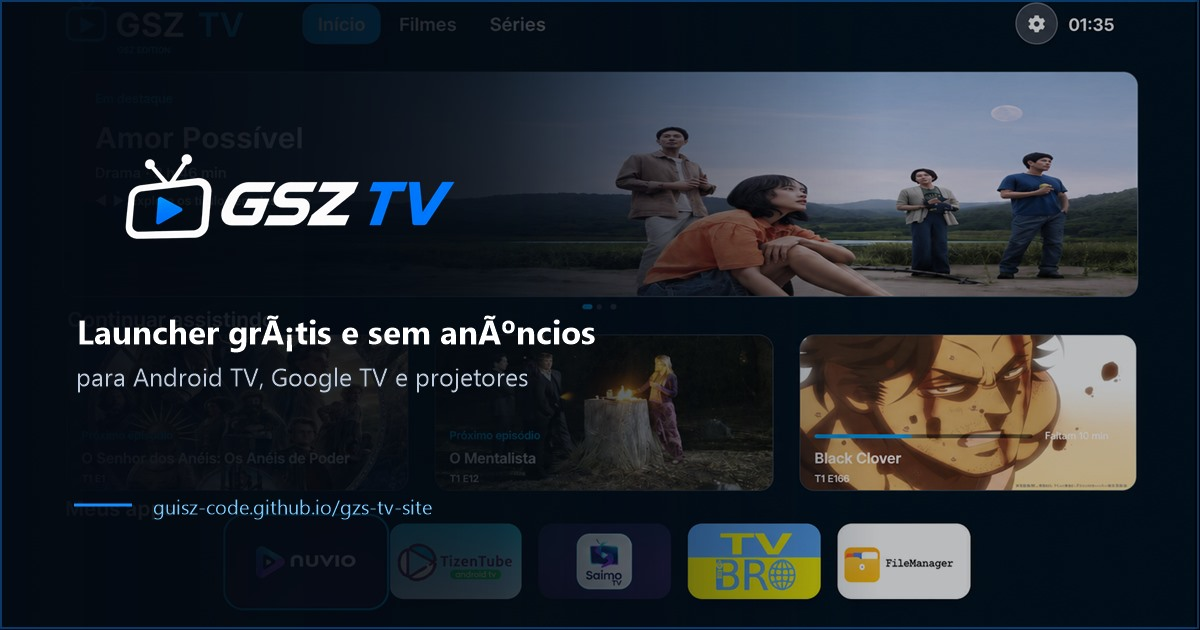
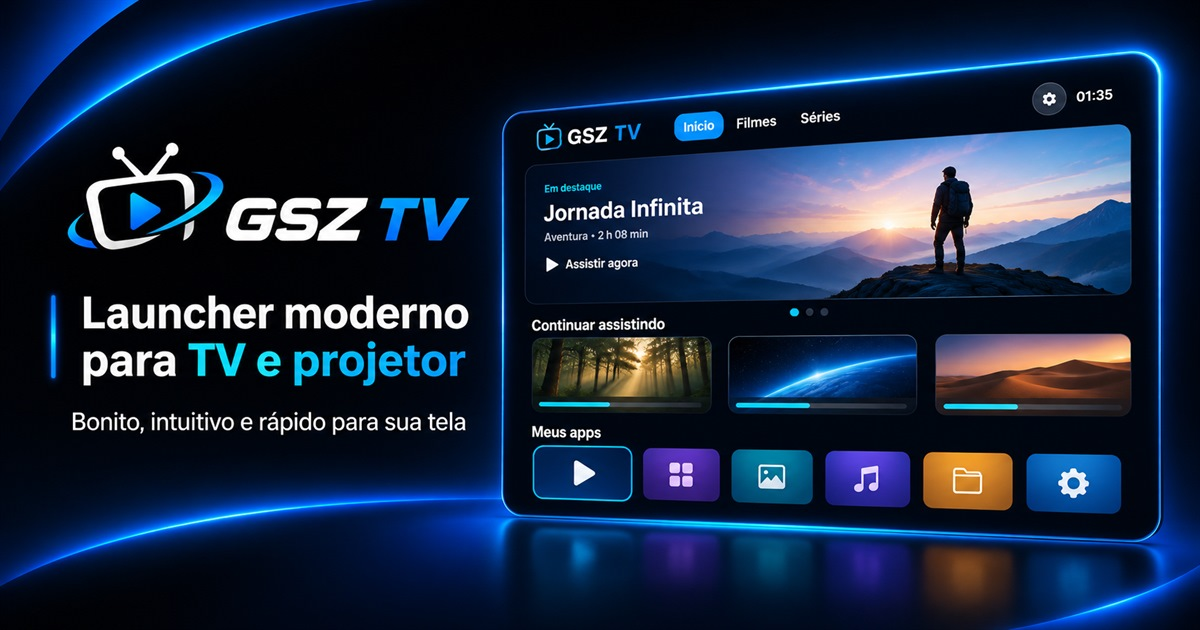
chore: atualiza social card e remove imagens duplicadas

diff --git a/index.html b/index.html
@@ -19,7 +19,7 @@
   <meta property="og:image:type" content="image/jpeg">
   <meta property="og:image:width" content="1200">
   <meta property="og:image:height" content="630">
-  <meta property="og:image:alt" content="GSZ TV — launcher grátis para Android TV, Google TV e projetores Android">
+  <meta property="og:image:alt" content="GSZ TV — launcher moderno para TV e projetor">
   <meta property="og:site_name" content="GSZ TV">
   <meta property="og:locale" content="pt_BR">
 
@@ -29,7 +29,7 @@
   <meta name="twitter:title" content="GSZ TV — Launcher grátis para Android TV">
   <meta name="twitter:description" content="Launcher gratuito, leve e sem anúncios para Android TV, Google TV e projetores Android.">
   <meta name="twitter:image" content="https://guisz-code.github.io/gzs-tv-site/assets/img/social-card.jpg">
-  <meta name="twitter:image:alt" content="GSZ TV — launcher grátis para Android TV, Google TV e projetores Android">
+  <meta name="twitter:image:alt" content="GSZ TV — launcher moderno para TV e projetor">
 
   <title>GSZ TV: Launcher grátis para Android TV e projetores</title>
   <script type="application/ld+json">

diff --git a/README.md b/README.md
@@ -1,6 +1,6 @@
 <h1 align="center">
   <br>
-  <img src="assets/img/logo-gsz-tv.png" alt="Logo GSZ TV" width="80">
+  <img src="assets/img/logo-gsz-tv.webp" alt="Logo GSZ TV" width="80">
   <br>
   GSZ TV — Site Oficial
   <br>
